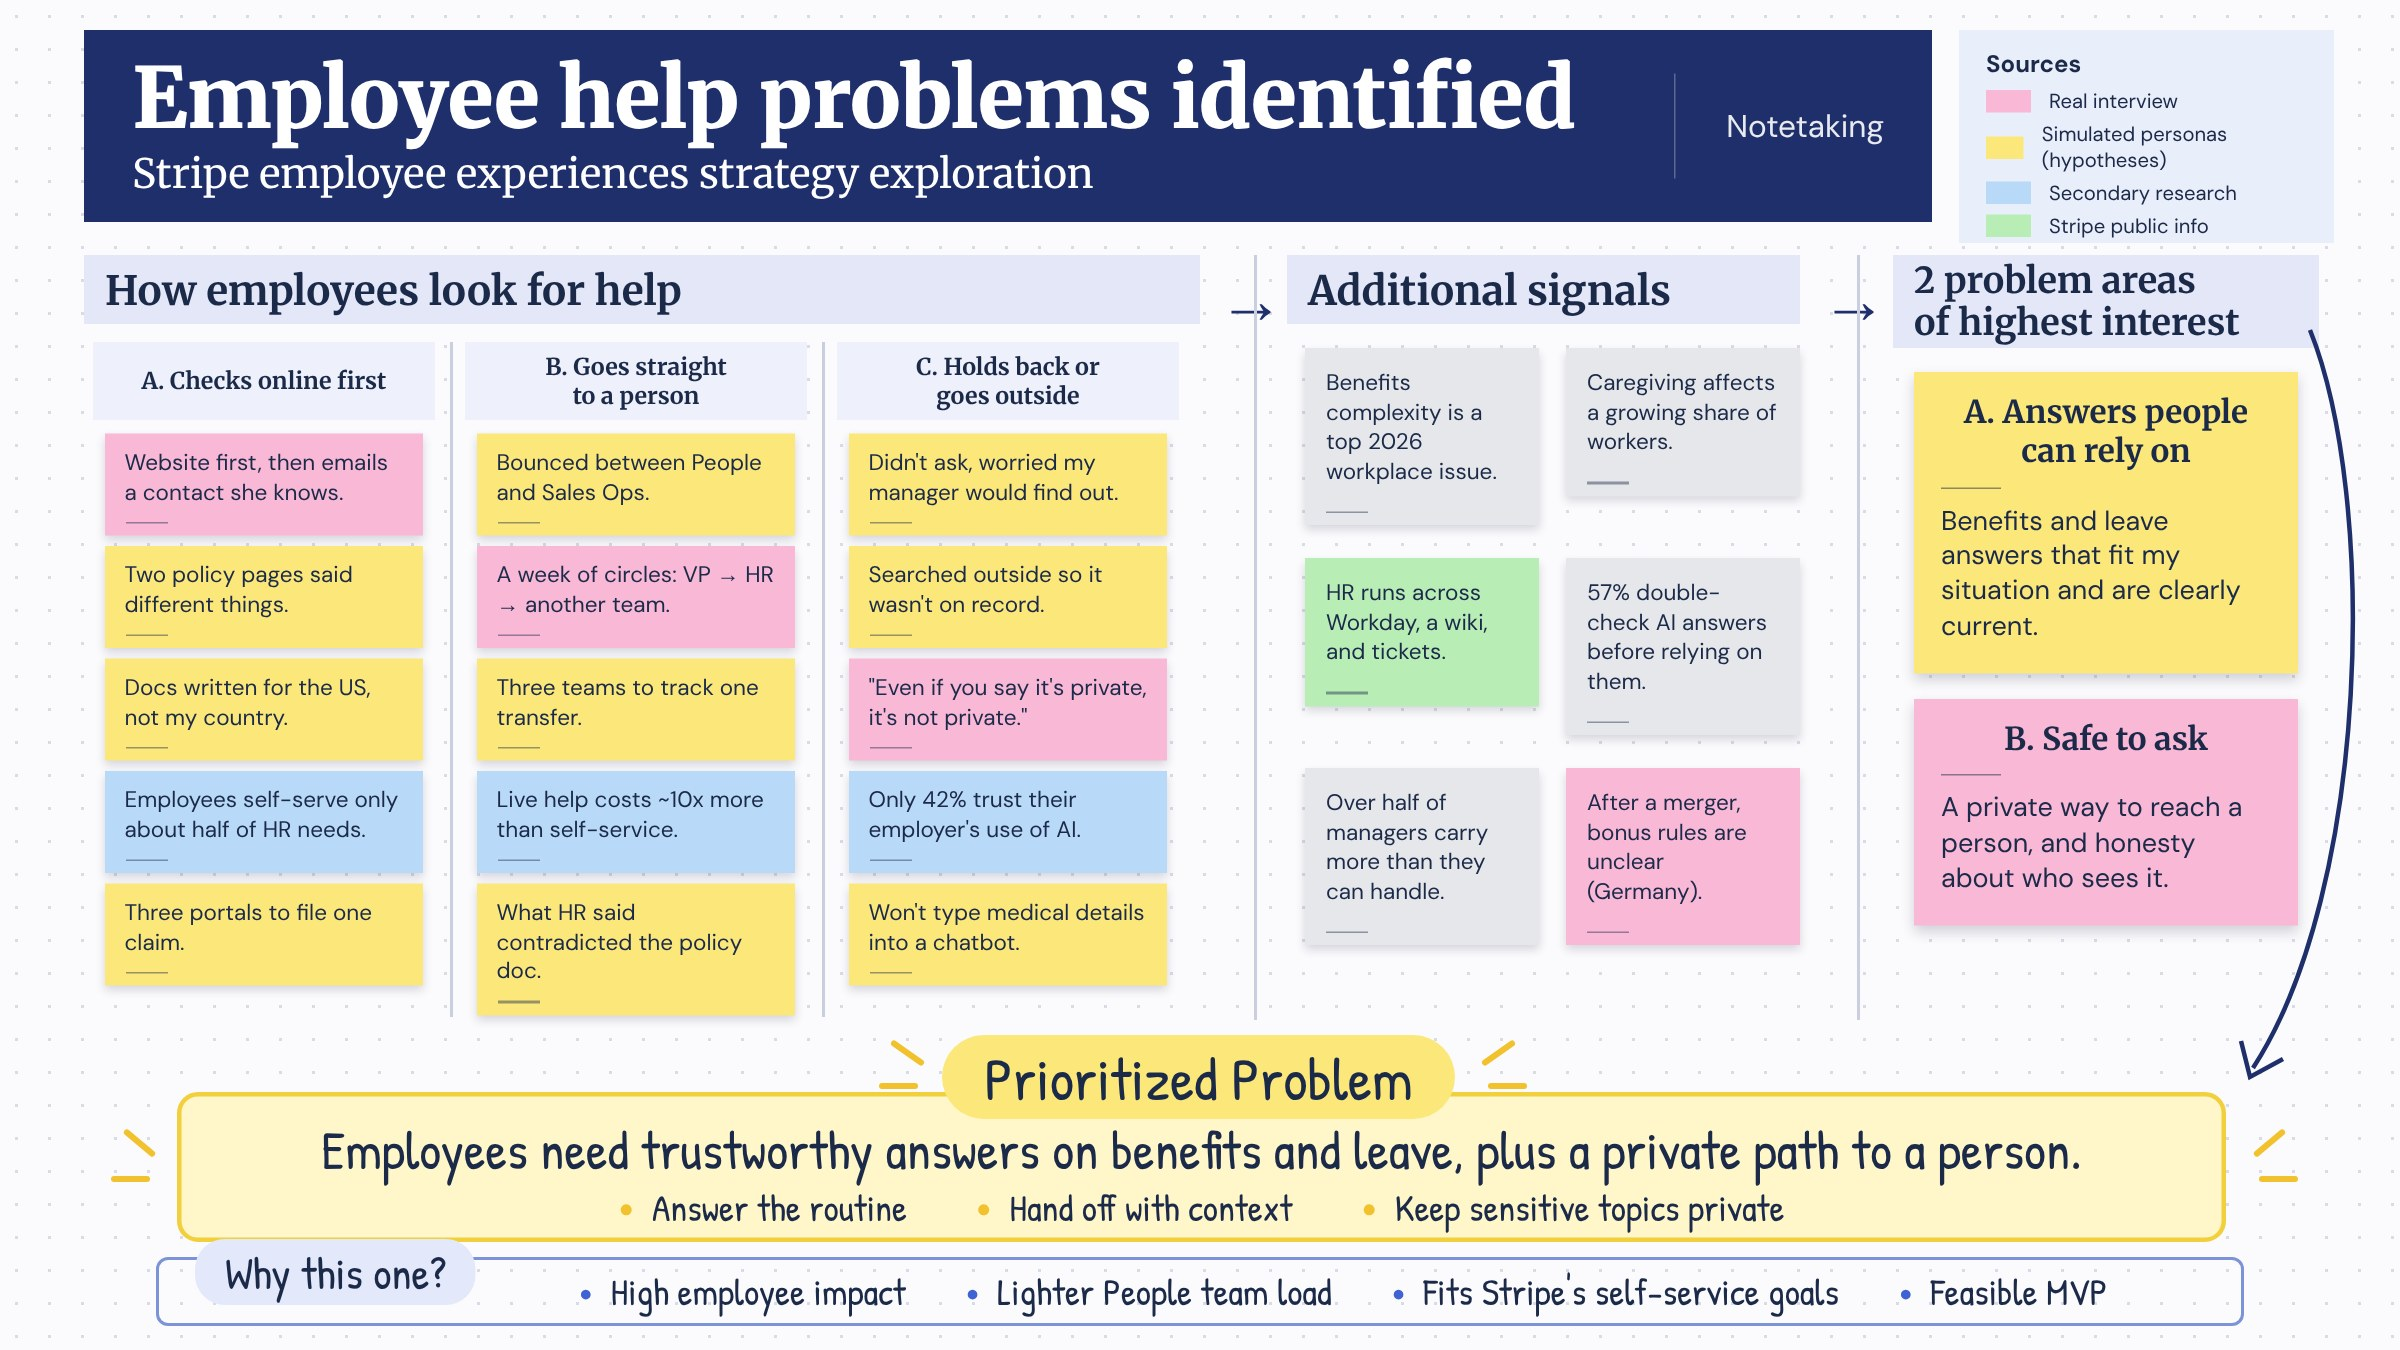
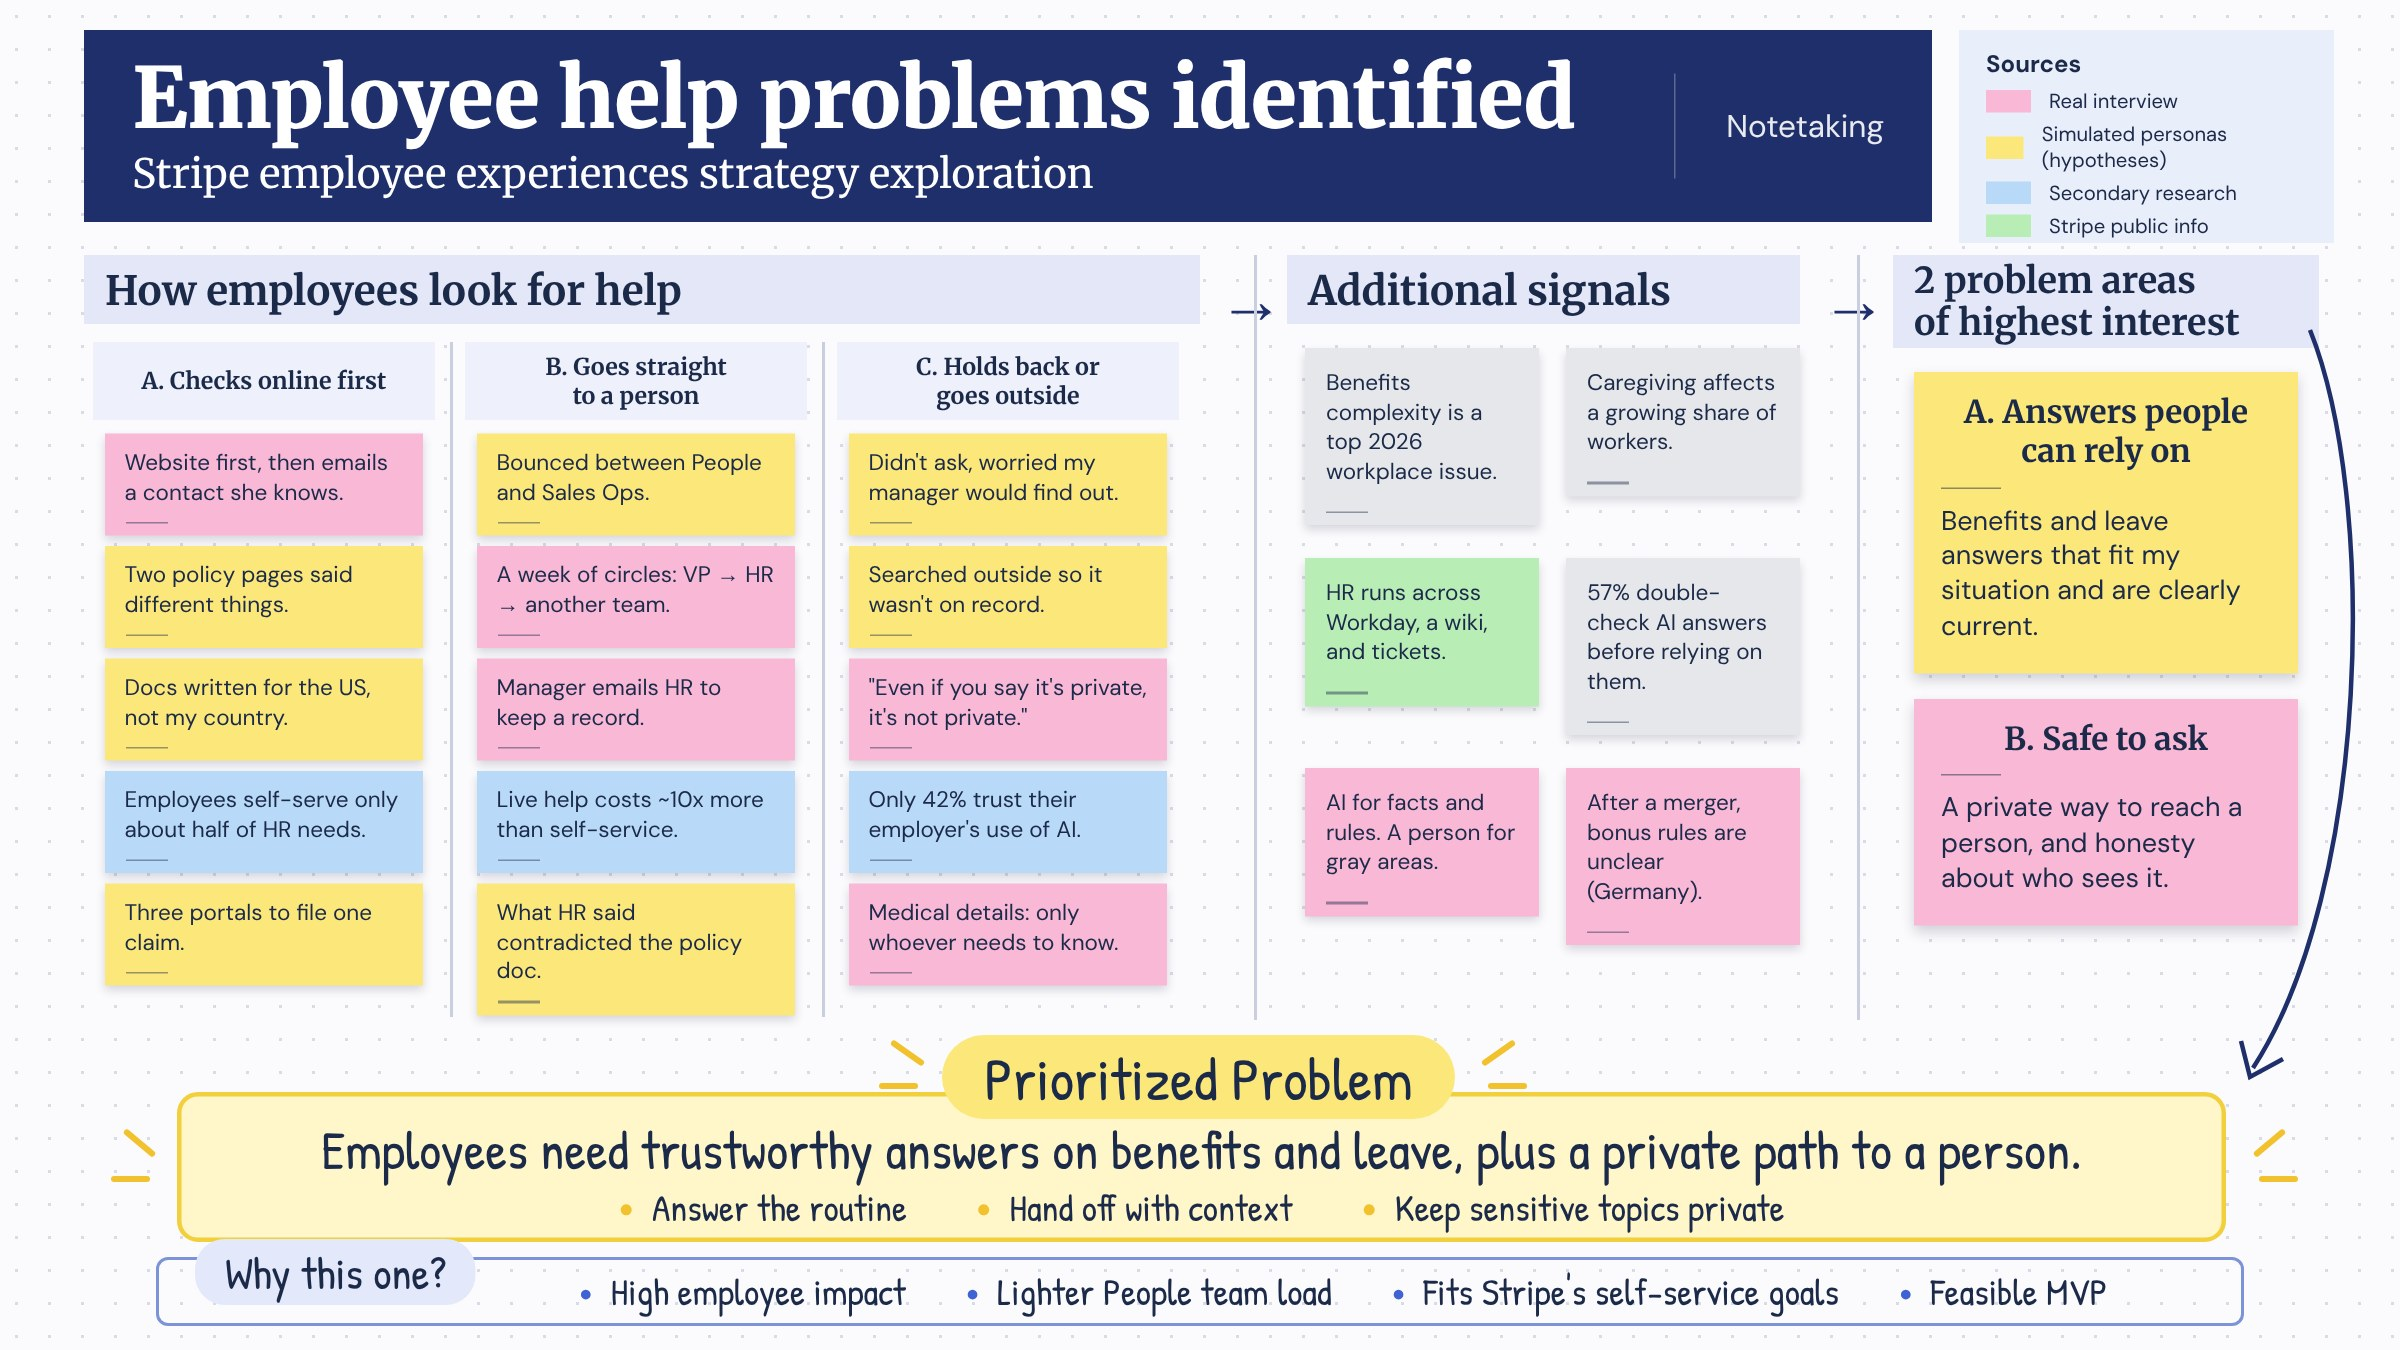
Add battalion chief interview and Liana follow-up to Stripe draft
Claude-Session: https://claude.ai/code/session_01XF7k1YqiAUVVFY4gitzFxY

Changed region(s): [[0.1875, 0.4667, 0.3438, 0.5911], [0.5312, 0.56, 0.6562, 0.6844], [0.3438, 0.6533, 0.5, 0.7467]]

diff --git a/stripe.html b/stripe.html
@@ -55,7 +55,7 @@ a{color:#FDF6DC}a:hover{color:#F4AE55}
 <a href="#top" aria-label="Back to top" style="position: fixed; right: 32px; bottom: 32px; z-index: 50; width: 56px; height: 56px; border-radius: 50%; background: #F4AE55; color: #1F3F5C; display: flex; align-items: center; justify-content: center; text-decoration: none; box-shadow: 0 10px 24px rgba(20,40,60,0.28)"><svg width="22" height="22" viewBox="0 0 24 24" aria-hidden="true"><path d="M12 5l-7 7h4.5v7h5v-7H19z" fill="#1F3F5C"></path></svg></a>
 <article style="flex-grow: 1; box-sizing: border-box; padding: 72px 0 96px; display: flex; flex-direction: column; align-items: center; background: #ffffff">
 <div style="width: 760px; display: flex; flex-direction: column; gap: 22px">
-<p style="margin: 0; font-family: 'DM Sans', sans-serif; font-weight: 300; font-size: 24px; line-height: 1.5; color: #2E5A81">I put this together to practice thinking about Stripe's People products the way I would on the Employee Experiences team. I used public research, Stripe's public job postings, two real interviews, and simulated personas, which I label clearly as hypotheses.</p>
+<p style="margin: 0; font-family: 'DM Sans', sans-serif; font-weight: 300; font-size: 24px; line-height: 1.5; color: #2E5A81">I put this together to practice thinking about Stripe's People products the way I would on the Employee Experiences team. I used public research, Stripe's public job postings, three real interviews, and simulated personas, which I label clearly as hypotheses.</p>
 <div style="display: grid; grid-template-columns: repeat(2, minmax(0, 1fr)); gap: 16px 24px; padding: 24px 0; border-top: 1px solid #D9CFBF; border-bottom: 1px solid #D9CFBF"><div style="display: flex; flex-direction: column; gap: 4px"><span style="font-family: 'DM Sans', sans-serif; font-size: 12px; font-weight: 700; letter-spacing: 0.12em; text-transform: uppercase; color: #86616C">For</span><span style="font-family: 'DM Sans', sans-serif; font-size: 17px; color: #1F3F5C">Product Manager, Employee Experiences</span></div><div style="display: flex; flex-direction: column; gap: 4px"><span style="font-family: 'DM Sans', sans-serif; font-size: 12px; font-weight: 700; letter-spacing: 0.12em; text-transform: uppercase; color: #86616C">Author</span><span style="font-family: 'DM Sans', sans-serif; font-size: 17px; color: #1F3F5C">Jovanay Carter</span></div><div style="display: flex; flex-direction: column; gap: 4px"><span style="font-family: 'DM Sans', sans-serif; font-size: 12px; font-weight: 700; letter-spacing: 0.12em; text-transform: uppercase; color: #86616C">Product</span><span style="font-family: 'DM Sans', sans-serif; font-size: 17px; color: #1F3F5C">Internal People tools: benefits and leave</span></div><div style="display: flex; flex-direction: column; gap: 4px"><span style="font-family: 'DM Sans', sans-serif; font-size: 12px; font-weight: 700; letter-spacing: 0.12em; text-transform: uppercase; color: #86616C">Description</span><span style="font-family: 'DM Sans', sans-serif; font-size: 17px; color: #1F3F5C">Outside case study</span></div></div>
 
 <h3 style="margin: 16px 0 0; font-family: 'DM Sans', sans-serif; font-weight: 700; font-size: 22px; color: #2E5A81">My understanding of Stripe's Employee Experiences team</h3>
@@ -67,14 +67,16 @@ a{color:#FDF6DC}a:hover{color:#F4AE55}
 <p style="margin: 0; font-size: 20px; line-height: 1.75; color: #1F3F5C">The constraint I kept in mind is trust, not speed. Security, legal, and Employee Relations rightly move carefully with employee data, so anything I proposed had to earn trust first and scale second.</p>
 
 <h2 style="margin: 56px 0 0; display: flex; gap: 20px; align-items: baseline; font-family: 'DM Sans', sans-serif; font-weight: 500; font-size: 34px; line-height: 1.2; color: #2E5A81"><span style="font-family: 'Instrument Serif', serif; font-weight: 400; font-size: 44px; color: #C8403F">02</span>Research signals</h2>
-<p style="margin: 0; font-size: 20px; line-height: 1.75; color: #1F3F5C">I pulled from SHRM, Gartner, Korn Ferry, and several workplace surveys. I interviewed two employees, a claims specialist at a healthcare billing company in Chicago and a marketing operations manager at an IT company in Germany, and I wrote 11 simulated employee personas to form hypotheses. I put each signal on a sticky note, color-coded by source, and sorted until patterns showed up.</p>
+<p style="margin: 0; font-size: 20px; line-height: 1.75; color: #1F3F5C">I pulled from SHRM, Gartner, Korn Ferry, and several workplace surveys. I interviewed three people: a claims specialist at a healthcare billing company in Chicago, a marketing operations manager at an IT company in Germany, and a battalion chief who manages about 250 people at a public-sector fire department. I also wrote 11 simulated employee personas to form hypotheses. I put each signal on a sticky note, color-coded by source, and sorted until patterns showed up.</p>
 <figure style="margin: 12px 0; display: flex; flex-direction: column; gap: 10px"><img src="images/stripe/research-board.jpg" alt="Research board of sticky notes sorted into how employees look for help: checks online first, goes straight to a person, or holds back and goes outside. Additional signals lead to two problem areas, answers people can rely on and safe to ask, and a prioritized problem: employees need trustworthy answers on benefits and leave, plus a private path to a person." width="2400" height="1350" style="width: 100%; height: auto; display: block; border-radius: 12px; border: 1px solid #E6DDCB"></figure>
 <p style="margin: 0; font-size: 20px; line-height: 1.75; color: #1F3F5C">The clearest pattern was how people look for help:</p>
 <ul style="margin: 0; padding-left: 24px; display: flex; flex-direction: column; gap: 12px; font-size: 20px; line-height: 1.75; color: #1F3F5C"><li><strong>Checks online first:</strong> looks it up, and only contacts a person if that fails. They need answers they can trust are current.</li><li><strong>Goes straight to a person:</strong> emails or files a ticket right away. They need to reach the right person without being bounced between teams.</li><li><strong>Holds back or goes outside:</strong> avoids asking HR because they're worried who will find out. They need a private way to ask.</li></ul>
 <p style="margin: 0; font-size: 20px; line-height: 1.75; color: #1F3F5C">The secondary research backed this up. Employees resolve only about half of their HR needs on their own, and only 42% trust their employer to use AI in a way that benefits them.</p>
-<p style="margin: 0; font-size: 20px; line-height: 1.75; color: #1F3F5C">My two real interviews pointed in different directions. The claims specialist found HR on the company website and got what she needed. The marketing operations manager in Germany needed her salary and bonus explained after a merger, and spent about a week going from her VP to HR to another team. On anything sensitive, she was blunt:</p>
+<p style="margin: 0; font-size: 20px; line-height: 1.75; color: #1F3F5C">My real interviews pointed in different directions. The claims specialist found HR on the company website and got what she needed, though she wants medical details seen only by whoever needs them. The marketing operations manager in Germany needed her salary and bonus explained after a merger, and spent about a week going from her VP to HR to another team. On anything sensitive, she was blunt:</p>
 <blockquote style="margin: 8px 0; padding: 4px 0 4px 28px; border-left: 3px solid #C8403F; font-family: 'Instrument Serif', serif; font-size: 30px; line-height: 1.25; color: #2E5A81">“Even if you say it’s private, it’s not private.”</blockquote>
-<p style="margin: 0; font-size: 20px; line-height: 1.75; color: #1F3F5C">Her magic wand was more transparency about how things work inside the company. Because my real sample is small, I treat the simulated findings as directional until I can test them with more people.</p>
+<p style="margin: 0; font-size: 20px; line-height: 1.75; color: #1F3F5C">Her magic wand was more transparency about how things work inside the company.</p>
+<p style="margin: 0; font-size: 20px; line-height: 1.75; color: #1F3F5C">The battalion chief mostly contacts HR about his people: personnel records, payroll checks, and leave cases. He emails on purpose, so there's a record. All three drew the same line for AI: facts, rules, and simple lookups are fine, but a person should handle anything specific to their situation. As the chief put it, “people have people problems.”</p>
+<p style="margin: 0; font-size: 20px; line-height: 1.75; color: #1F3F5C">Because my real sample is small, I treat the simulated findings as directional until I can test them with more people.</p>
 
 <h2 style="margin: 56px 0 0; display: flex; gap: 20px; align-items: baseline; font-family: 'DM Sans', sans-serif; font-weight: 500; font-size: 34px; line-height: 1.2; color: #2E5A81"><span style="font-family: 'Instrument Serif', serif; font-weight: 400; font-size: 44px; color: #C8403F">03</span>Narrowing the problem: a framework</h2>
 <p style="margin: 0; font-size: 20px; line-height: 1.75; color: #1F3F5C">I scored five candidate problems on three lenses: employee trust, People team workload, and fit with Stripe's goals. Trust gets the most weight, because if employees don't trust the answers, nothing else matters. Every candidate also had to pass a risk check: a reversible pilot, measurable within a quarter, and backed by more than one source.</p>
@@ -85,6 +87,7 @@ a{color:#FDF6DC}a:hover{color:#F4AE55}
 <h2 style="margin: 56px 0 0; display: flex; gap: 20px; align-items: baseline; font-family: 'DM Sans', sans-serif; font-weight: 500; font-size: 34px; line-height: 1.2; color: #2E5A81"><span style="font-family: 'Instrument Serif', serif; font-weight: 400; font-size: 44px; color: #C8403F">04</span>What I got wrong at first</h2>
 <p style="margin: 0; font-size: 20px; line-height: 1.75; color: #1F3F5C">I assumed privacy only mattered for the most serious cases, like reporting harassment. The research suggested it's much broader. People held back on asking about an internal move, a pregnancy they hadn't announced, or medical leave, because they didn't know who would see the question.</p>
 <p style="margin: 0; font-size: 20px; line-height: 1.75; color: #1F3F5C">My interview in Germany added a second lesson: some people don't distrust the AI, they distrust HR itself. So I stopped treating privacy as an edge case and started treating it as a reason people never ask at all. That changed the product from "a better answer engine" to "a place people feel safe asking."</p>
+<p style="margin: 0; font-size: 20px; line-height: 1.75; color: #1F3F5C">I also guessed that written records would feel protective to managers and risky to employees. The interviews didn't support that. The claims specialist, an individual contributor, feels protected by records because she trusts the rules. What mattered was trust, not role.</p>
 
 <h2 style="margin: 56px 0 0; display: flex; gap: 20px; align-items: baseline; font-family: 'DM Sans', sans-serif; font-weight: 500; font-size: 34px; line-height: 1.2; color: #2E5A81"><span style="font-family: 'Instrument Serif', serif; font-weight: 400; font-size: 44px; color: #C8403F">05</span>The direction I chose</h2>
 <p style="margin: 0; font-size: 20px; line-height: 1.75; color: #1F3F5C">I combined two ideas: a benefits and leave assistant for routine questions, and a private conversation request for anything sensitive.</p>
@@ -99,7 +102,8 @@ a{color:#FDF6DC}a:hover{color:#F4AE55}
 <tr style="border-top: 1px solid #EFE7D6"><td style="padding: 14px 18px; font-weight: 700">Hand off with context</td><td style="padding: 14px 18px">"I need leave for a family medical crisis"</td></tr>
 <tr style="border-top: 1px solid #EFE7D6; background: #FFF6D6"><td style="padding: 14px 18px; font-weight: 700">Private conversation, no AI</td><td style="padding: 14px 18px">Reporting harassment or a manager's misconduct</td></tr>
 </tbody></table></div>
-<p style="margin: 0; font-size: 20px; line-height: 1.75; color: #1F3F5C">For the private conversation request, the product should be honest about what happens next. Once HR knows about some issues, the company may be required to act, so it shouldn't promise more confidentiality than it can keep. Legal and Employee Relations would own that wording. For employees who distrust HR itself, the private path should also include an option outside the usual HR route, such as an anonymous channel.</p>
+<p style="margin: 0; font-size: 20px; line-height: 1.75; color: #1F3F5C">For the private conversation request, the product should be honest about what happens next. Once HR knows about some issues, the company may be required to act, so it shouldn't promise more confidentiality than it can keep. Legal and Employee Relations would own that wording.</p>
+<p style="margin: 0; font-size: 20px; line-height: 1.75; color: #1F3F5C">Privacy also showed up as two different needs. Some people trust HR but want sensitive details limited to whoever needs them, which calls for role-based access: employees, managers, and People partners each see only what their role requires. Others distrust HR itself, so the private path should include an option outside the usual HR route, such as an anonymous channel. Managers, on the other hand, get a clear record of what they asked and what HR said.</p>
 
 <p style="margin: 24px 0 0; font-size: 15px; line-height: 1.6; color: #86616C">Sources: <a href="https://www.shrm.org/advocacy/shrm-reveals-top-5-workplace-issues-for-2026" target="_blank" rel="noopener" style="color: #86616C">SHRM Top 5 Workplace Issues for 2026</a> · <a href="https://www.workday.com/en-us/perspectives/ai/ai-at-work-september.html" target="_blank" rel="noopener" style="color: #86616C">Workday, AI at work survey</a> · <a href="https://tools.prnewswire.com/en-us/live/20823/release/20260115EN61063" target="_blank" rel="noopener" style="color: #86616C">Applaud, 2026 State of HR Service</a> · <a href="https://www.hcamag.com/ca/specialization/leadership/completely-unmanageable-helping-managers-deal-with-impossible-workloads/450510" target="_blank" rel="noopener" style="color: #86616C">Gartner on manager workloads</a> · <a href="https://www.staffingindustry.com/news/global-daily-news/most-workers-say-their-workload-has-surged-some-cant-deliver-results" target="_blank" rel="noopener" style="color: #86616C">Korn Ferry Workforce 2026</a> · Stripe public job postings</p>
 
